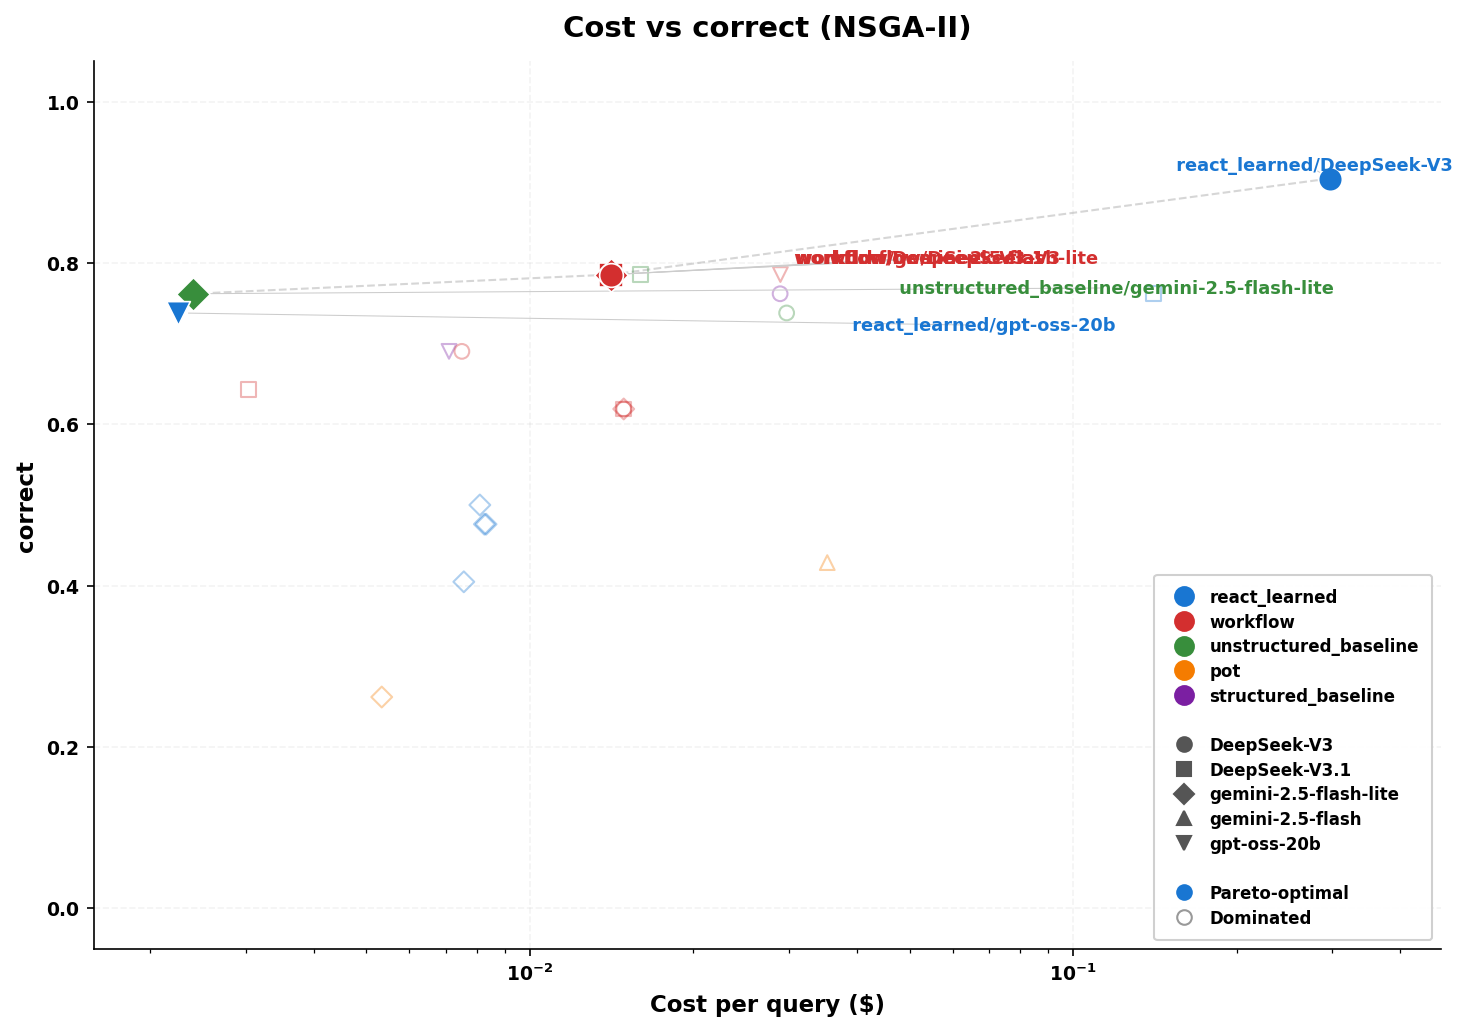
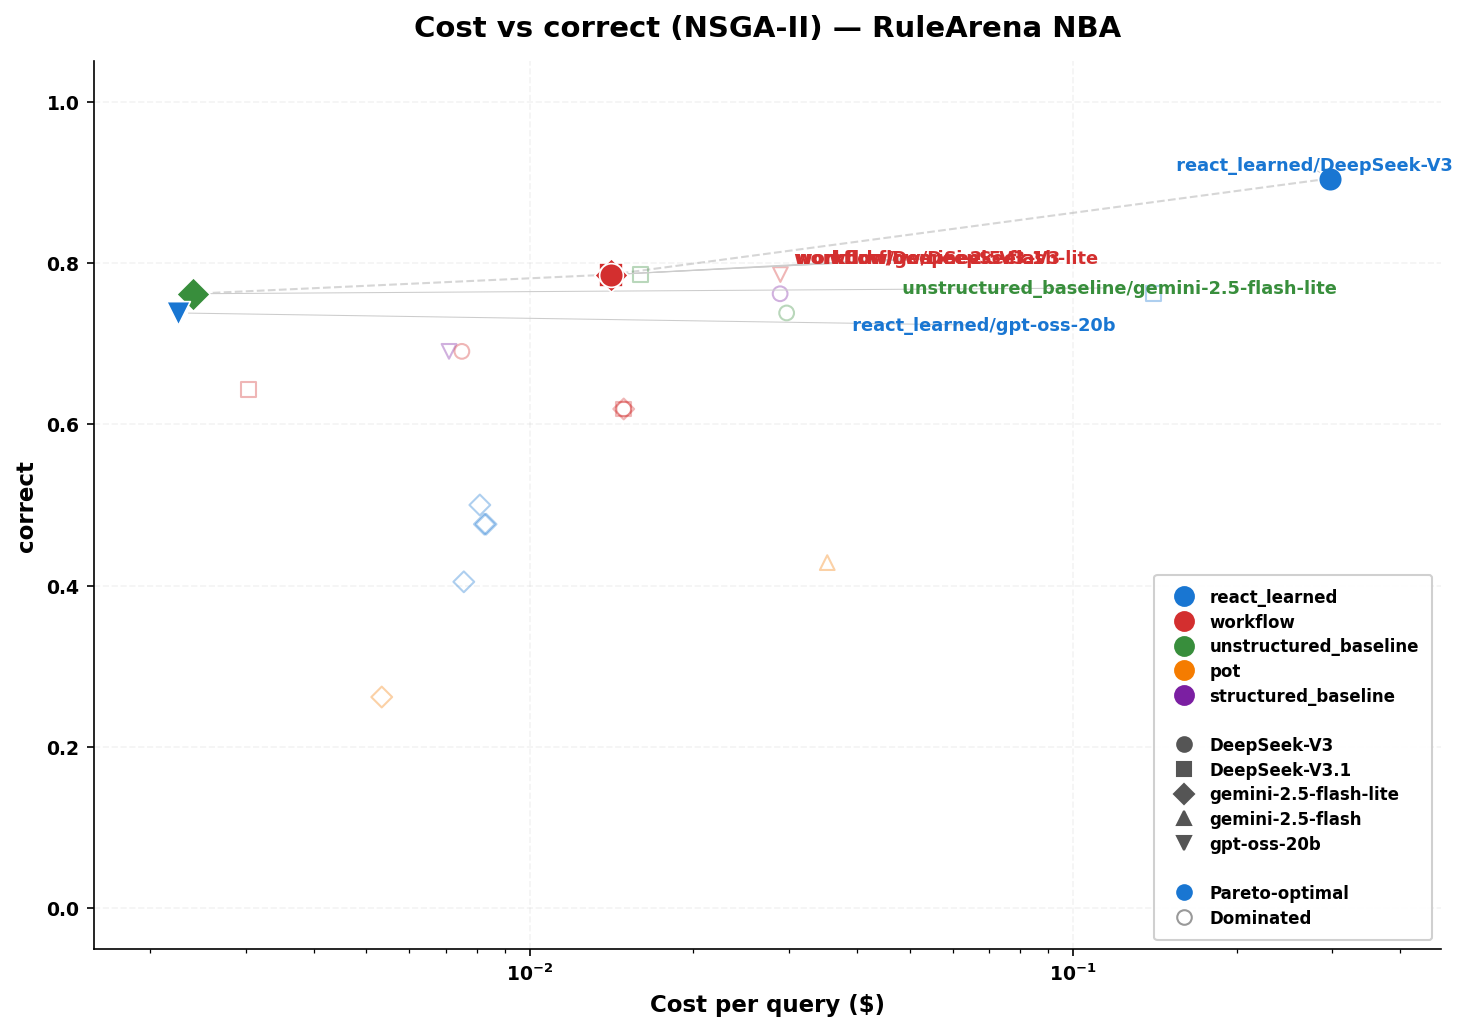
COMMON/optimize-results/rulearena_nba: add plot.py for reproducible Pareto figure
Self-contained script that reads nsga2_summary.csv and regenerates
nsga2.png via the shared secretagent.optimize.viz module. Anyone can
run `uv run plot.py` from this directory to verify the figure or
re-render after a viz update. REPRODUCE.md updated to list plot.py
and document the regeneration step.

Changed region(s): [[0.2759, 0.0, 0.7663, 0.0621], [0.6131, 0.2483, 0.9196, 0.3104]]

diff --git a/benchmarks/COMMON/optimize-results/rulearena_nba/plot.py b/benchmarks/COMMON/optimize-results/rulearena_nba/plot.py
@@ -1,0 +1,35 @@
+"""Regenerate nsga2.png from nsga2_summary.csv in this directory.
+
+Run from anywhere in a checked-out repo:
+
+    uv run benchmarks/COMMON/optimize-results/rulearena_nba/plot.py
+
+Reads `nsga2_summary.csv` next to this script and writes `nsga2.png`
+next to this script. Uses the project's shared viz module so the
+plot styling tracks any future improvements to the optimizer's plots.
+"""
+from pathlib import Path
+
+import pandas as pd
+
+from secretagent.optimize.viz import plot_pareto_frontier
+
+
+HERE = Path(__file__).parent
+
+
+def main() -> None:
+    df = pd.read_csv(HERE / "nsga2_summary.csv")
+    df = df[df["valid"]].copy()
+    results = [(row["config"], row["correct"], row["cost"]) for _, row in df.iterrows()]
+    plot_pareto_frontier(
+        results=results,
+        title="Cost vs correct (NSGA-II) — RuleArena NBA",
+        output_path=HERE / "nsga2.png",
+        metric_name="correct",
+        show=False,
+    )
+
+
+if __name__ == "__main__":
+    main()

diff --git a/benchmarks/COMMON/optimize-results/rulearena_nba/REPRODUCE.md b/benchmarks/COMMON/optimize-results/rulearena_nba/REPRODUCE.md
@@ -10,6 +10,7 @@ This directory is a frozen snapshot of one NSGA-II sweep on RuleArena NBA, the c
 | `nsga2_summary.csv` | One row per evaluated config — `correct`, `cost`, `frontier`, `valid` |
 | `nsga2_generations.csv` | Per-generation stats — frontier size, new evals, cache hits, elapsed |
 | `nsga2.png` | Cost-vs-accuracy scatter with Pareto frontier highlighted |
+| `plot.py` | Regenerates `nsga2.png` from `nsga2_summary.csv` (uses shared `secretagent.optimize.viz`) |
 | `nsga_runs/nsga_001/ … nsga_043/` | Per-config result dirs — `config.yaml`, `results.csv`, `results.jsonl` |
 | `baselines/baseline_*/` | Six-model baseline runs (Pareto reference for the sweep) |
 
@@ -52,6 +53,11 @@ print(f'NOCACHE = \${total:.4f}  ({len(csvs)} configs)')
 # 3. Per-generation cache-hit trend (config-level)
 cat nsga2_generations.csv
 # expected: hit_pct rises 0% -> 9% -> 30% -> 55% -> 58% -> 56%
+
+# 4. Regenerate the Pareto plot
+uv run plot.py
+# writes nsga2.png alongside this file; uses log-x scale for the
+# 100x cost range and dedupes identical (config, acc, cost) rows.
 ```
 
 CACHE_BEFORE_NSGA2 ($21.53) is recorded in `CACHE_FINDINGS.md`. It cannot be re-derived from the current cache state alone — the cache has grown since. To re-derive: revert the two cache files to their state at the post-baseline commit and run `cli.costs` again. (Bit-exact reproduction below uses the values as-recorded.)